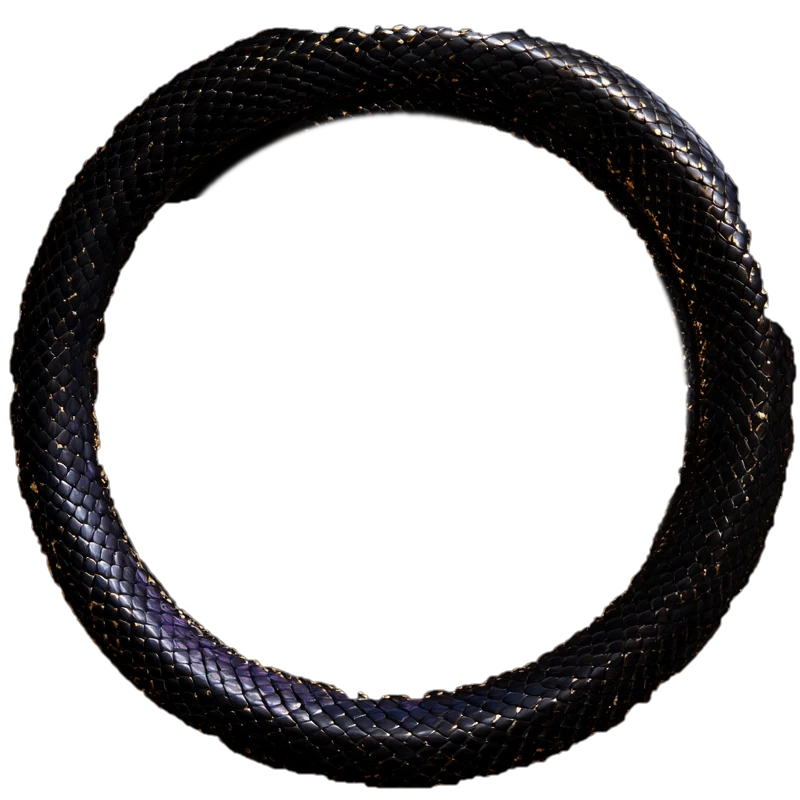
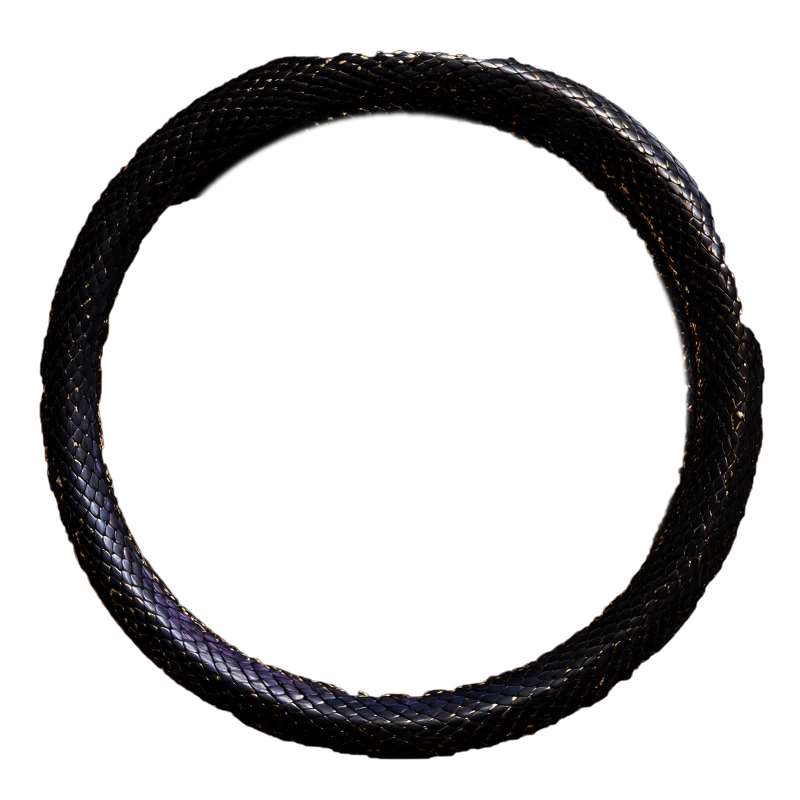
Serpent: slimmer coil
Claude-Session: https://claude.ai/code/session_01ECSoSUfErtExioGc3A9RaZ

diff --git a/home-italian/index.html b/home-italian/index.html
@@ -38,11 +38,11 @@
 <link rel="preconnect" href="https://fonts.gstatic.com" crossorigin>
 <link href="https://fonts.googleapis.com/css2?family=Parkinsans:wght@300;400;500&family=Playfair+Display:ital,wght@1,400;1,500&display=swap" rel="stylesheet">
 <link rel="preload" as="image" href="../images/book-it.webp">
-<link rel="stylesheet" href="../assets/style.css?v=202610100825">
-<link rel="stylesheet" href="../assets/story.css?v=202610100825">
+<link rel="stylesheet" href="../assets/style.css?v=202610100829">
+<link rel="stylesheet" href="../assets/story.css?v=202610100829">
 <script>document.documentElement.classList.add("js")</script>
 <link rel="preload" as="image" href="../images/art/babylon.webp">
-<link rel="stylesheet" href="../assets/fx.css?v=202610100825">
+<link rel="stylesheet" href="../assets/fx.css?v=202610100829">
 <script data-goatcounter="https://nicolep.goatcounter.com/count" async src="https://gc.zgo.at/count.js"></script>
 </head>
 <body class="fx">
@@ -140,7 +140,7 @@
   </section>
 
   <section class="about" id="about">
-    <figure class="portrait"><div class="photo"><img src="../images/author-photo.webp" alt="Nicole Maria Pezza" width="1086" height="1448" loading="lazy" decoding="async"><div class="serpent" aria-hidden="true"><img class="sp-ring" src="../images/serpent-ring.webp?v=5" alt="" width="800" height="800" loading="lazy" decoding="async"><img class="sp-neck" src="../images/serpent-neck.webp?v=5" alt="" width="800" height="800" loading="lazy" decoding="async"></div></div></figure>
+    <figure class="portrait"><div class="photo"><img src="../images/author-photo.webp" alt="Nicole Maria Pezza" width="1086" height="1448" loading="lazy" decoding="async"><div class="serpent" aria-hidden="true"><img class="sp-ring" src="../images/serpent-ring.webp?v=6" alt="" width="800" height="800" loading="lazy" decoding="async"><img class="sp-neck" src="../images/serpent-neck.webp?v=5" alt="" width="800" height="800" loading="lazy" decoding="async"></div></div></figure>
     <div class="about-text">
       <h2>Sull’autrice</h2>
       <div class="bio">
@@ -177,8 +177,8 @@
   </div>
 </div>
 
-<script src="../assets/site.js?v=202610100825"></script>
-<script src="../assets/story.js?v=202610100825"></script>
-<script src="../assets/fx.js?v=202610100825"></script>
+<script src="../assets/site.js?v=202610100829"></script>
+<script src="../assets/story.js?v=202610100829"></script>
+<script src="../assets/fx.js?v=202610100829"></script>
 </body>
 </html>

diff --git a/index.html b/index.html
@@ -38,11 +38,11 @@
 <link rel="preconnect" href="https://fonts.gstatic.com" crossorigin>
 <link href="https://fonts.googleapis.com/css2?family=Parkinsans:wght@300;400;500&family=Playfair+Display:ital,wght@1,400;1,500&display=swap" rel="stylesheet">
 <link rel="preload" as="image" href="images/book-en.webp">
-<link rel="stylesheet" href="assets/style.css?v=202610100825">
-<link rel="stylesheet" href="assets/story.css?v=202610100825">
+<link rel="stylesheet" href="assets/style.css?v=202610100829">
+<link rel="stylesheet" href="assets/story.css?v=202610100829">
 <script>document.documentElement.classList.add("js")</script>
 <link rel="preload" as="image" href="images/art/babylon.webp">
-<link rel="stylesheet" href="assets/fx.css?v=202610100825">
+<link rel="stylesheet" href="assets/fx.css?v=202610100829">
 <script data-goatcounter="https://nicolep.goatcounter.com/count" async src="https://gc.zgo.at/count.js"></script>
 </head>
 <body class="fx">
@@ -140,7 +140,7 @@
   </section>
 
   <section class="about" id="about">
-    <figure class="portrait"><div class="photo"><img src="images/author-photo.webp" alt="Nicole Maria Pezza" width="1086" height="1448" loading="lazy" decoding="async"><div class="serpent" aria-hidden="true"><img class="sp-ring" src="images/serpent-ring.webp?v=5" alt="" width="800" height="800" loading="lazy" decoding="async"><img class="sp-neck" src="images/serpent-neck.webp?v=5" alt="" width="800" height="800" loading="lazy" decoding="async"></div></div></figure>
+    <figure class="portrait"><div class="photo"><img src="images/author-photo.webp" alt="Nicole Maria Pezza" width="1086" height="1448" loading="lazy" decoding="async"><div class="serpent" aria-hidden="true"><img class="sp-ring" src="images/serpent-ring.webp?v=6" alt="" width="800" height="800" loading="lazy" decoding="async"><img class="sp-neck" src="images/serpent-neck.webp?v=5" alt="" width="800" height="800" loading="lazy" decoding="async"></div></div></figure>
     <div class="about-text">
       <h2>About the Author</h2>
       <div class="bio">
@@ -177,8 +177,8 @@
   </div>
 </div>
 
-<script src="assets/site.js?v=202610100825"></script>
-<script src="assets/story.js?v=202610100825"></script>
-<script src="assets/fx.js?v=202610100825"></script>
+<script src="assets/site.js?v=202610100829"></script>
+<script src="assets/story.js?v=202610100829"></script>
+<script src="assets/fx.js?v=202610100829"></script>
 </body>
 </html>

diff --git a/assets/fx.css b/assets/fx.css
@@ -190,7 +190,7 @@ body.fx .ornament svg .eye.closed { transform: scaleY(.06); }
 .portrait .photo { position: relative; }
 .portrait .serpent { position: absolute; left: -18.22%; top: -18.22%; width: 136.44%; height: 136.44%; pointer-events: none; filter: drop-shadow(0 6px 8px rgba(0,0,0,.6)); }
 .portrait .serpent img { position: absolute; inset: 0; width: 100%; height: 100%; max-width: none; border-radius: 0; box-shadow: none; aspect-ratio: auto; filter: none; object-fit: fill; }
-@media (max-width: 860px) { .portrait .photo { max-width: 262px; } }
+@media (max-width: 860px) { .portrait .photo { max-width: 280px; } }
 /* it coils slowly round the frame (anticlockwise, the way its body runs), then the neck slides inside and the head arrives */
 @property --sweep { syntax: '<angle>'; inherits: false; initial-value: -8deg; }
 .js body.fx .about .serpent img { --sweep: -8deg; }
